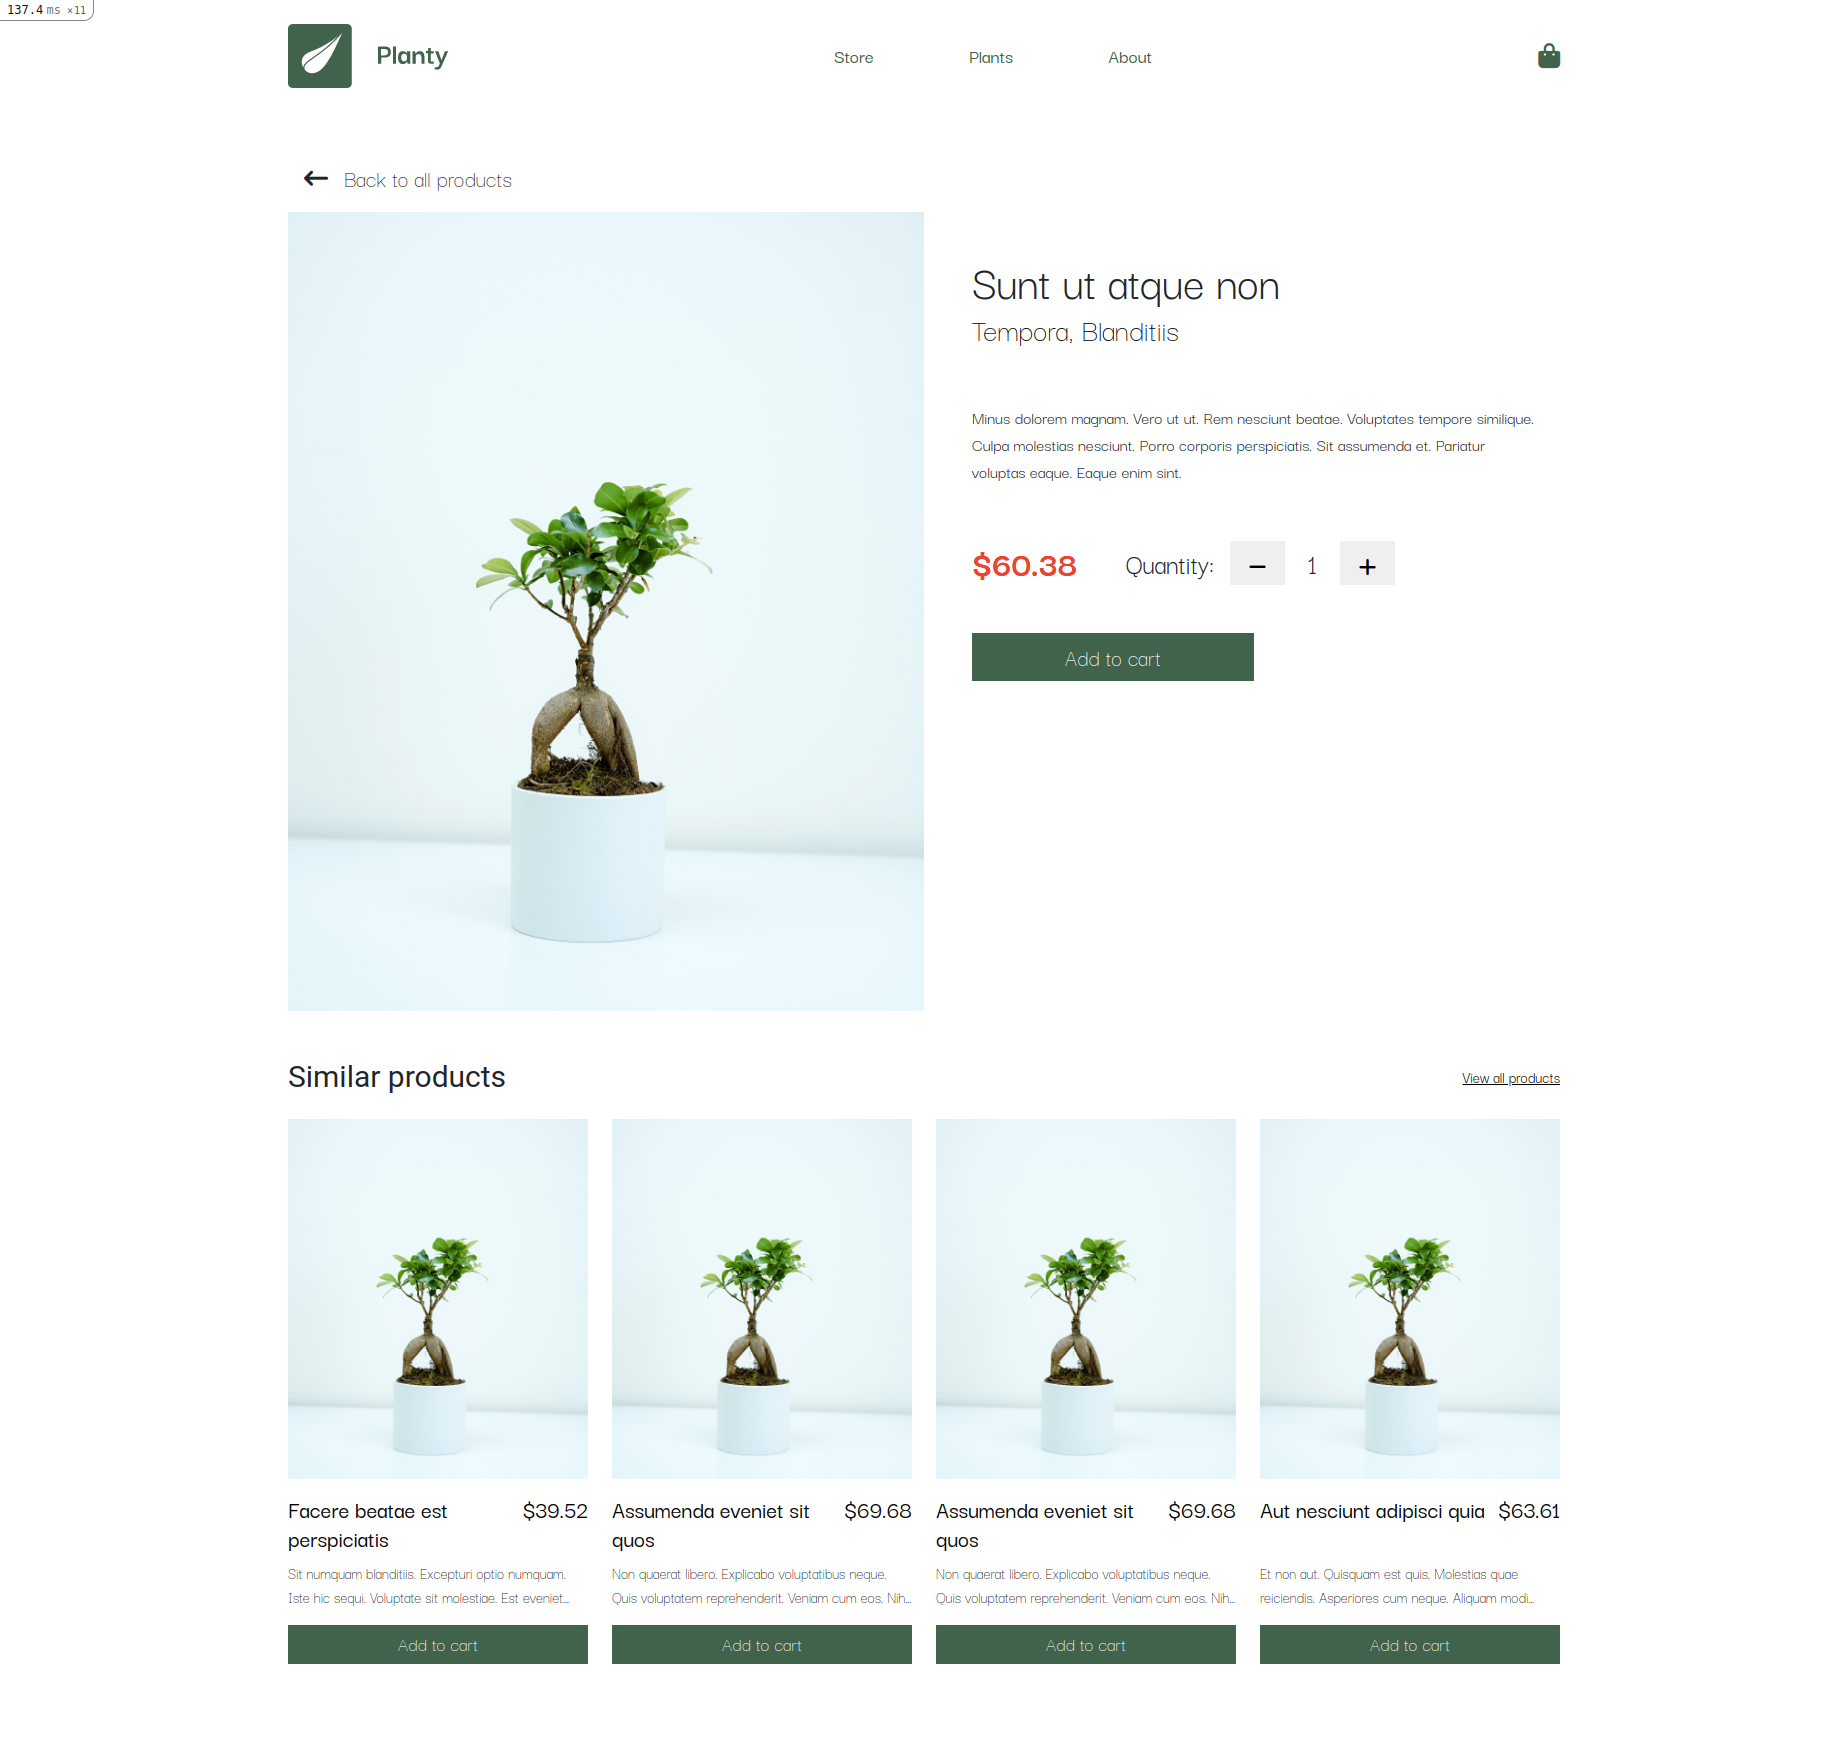
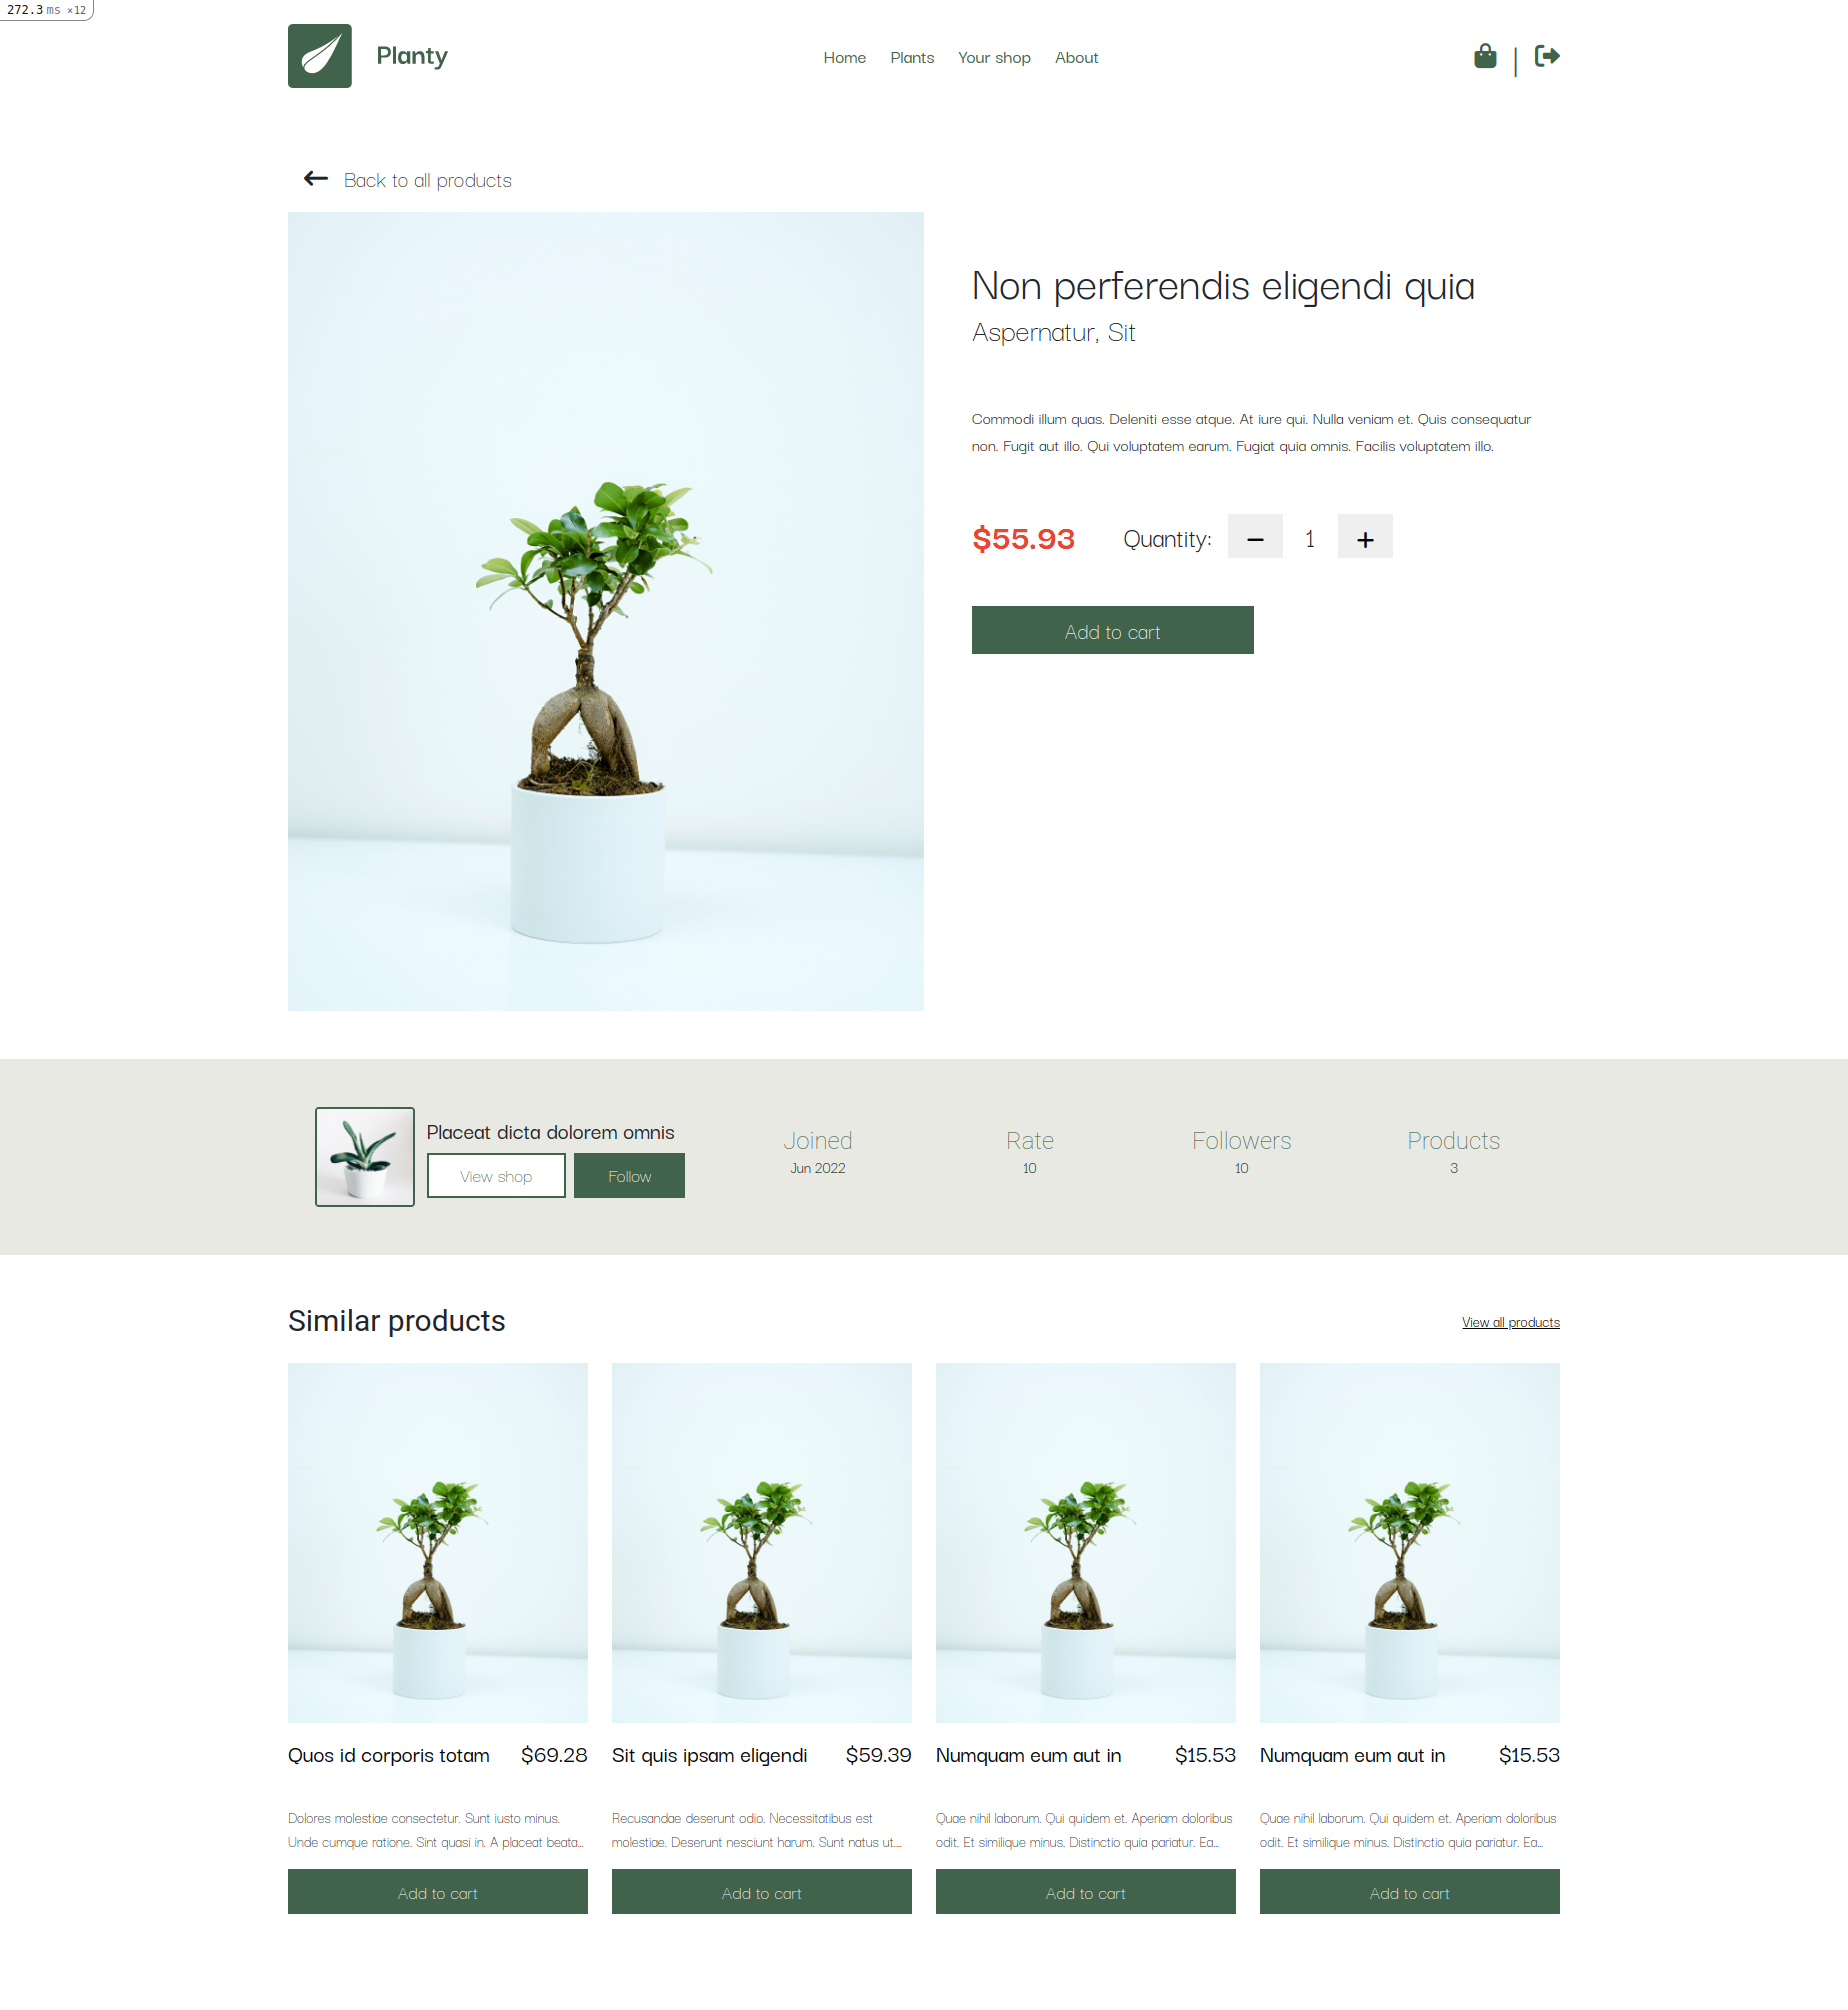
Update Product#show UI, add screenshots for shops

diff --git a/app/javascript/stylesheets/_config.scss b/app/javascript/stylesheets/_config.scss
@@ -12,7 +12,7 @@ $dark-green: rgb(65, 98, 75);
 }
 
 .text-darkgreen {
-  color: $dark-green;
+  color: $dark-green !important;
 }
 
 .text-red {
@@ -59,15 +59,19 @@ $dark-green: rgb(65, 98, 75);
   border: 2px solid $dark-green;
 }
 
-.btn-add-to-cart {
+.bg-color-cream {
+  background-color: #e8e9e3;
+}
+
+.btn-small {
   width: 100%; 
   background-color: $dark-green;
   padding: 12px 32px; 
   color: white;
   font-size: 20px;
   @extend .fw-300;
-  border-style: none;
-  height: 40px;
+  border: 2px solid $dark-green;
+  height: 45px;
   line-height: 16px;
 }
 
@@ -76,7 +80,7 @@ $dark-green: rgb(65, 98, 75);
   background-color: $dark-green;
   font-size: 24px;
   color: white;
-  border-style: none;
+  border: 2px solid $dark-green;
   transition: .1s;
 
   &:hover {
@@ -129,7 +133,7 @@ $dark-green: rgb(65, 98, 75);
     }
 
     button {
-      @extend .btn-add-to-cart;
+      @extend .btn-small;
     }
     
     &-name {

diff --git a/app/javascript/stylesheets/shops/show.scss b/app/javascript/stylesheets/shops/show.scss
@@ -1,5 +1,5 @@
 .shop-cover {
-  height: 280px; 
+  // height: 280px; 
   background-image: url('/assets/shop-cover.jpg');
   background-size: cover;
   background-position: center;

diff --git a/app/javascript/stylesheets/products/show.scss b/app/javascript/stylesheets/products/show.scss
@@ -21,3 +21,7 @@
     color: black;
   }
 }
+
+#product-show-shop {
+  @extend .bg-color-cream;
+}

diff --git a/db/schema.rb b/db/schema.rb
@@ -10,7 +10,7 @@
 #
 # It's strongly recommended that you check this file into your version control system.
 
-ActiveRecord::Schema.define(version: 2022_06_20_042758) do
+ActiveRecord::Schema.define(version: 2022_06_21_034112) do
 
   # These are extensions that must be enabled in order to support this database
   enable_extension "plpgsql"
@@ -82,7 +82,7 @@ ActiveRecord::Schema.define(version: 2022_06_20_042758) do
     t.string "name"
     t.text "description"
     t.bigint "user_id", null: false
-    t.integer "products_count"
+    t.integer "products_count", default: 0
     t.datetime "created_at", precision: 6, null: false
     t.datetime "updated_at", precision: 6, null: false
     t.index ["user_id"], name: "index_shops_on_user_id"

diff --git a/app/controllers/shops_controller.rb b/app/controllers/shops_controller.rb
@@ -15,7 +15,8 @@ class ShopsController < ApplicationController
 
   def create 
     @shop = Shop.new(shop_params.merge(user: @user))
-    if @shop.save 
+    if @shop.save
+      @user.add_role :seller 
       flash[:success] = "Congratulations! You have successfuly open your own shop on Planty!"
       redirect_to [@user, @shop], method: :get
     else 

diff --git a/db/migrate/20220621034112_add_default_product_count_to_shops.rb b/db/migrate/20220621034112_add_default_product_count_to_shops.rb
@@ -1,0 +1,5 @@
+class AddDefaultProductCountToShops < ActiveRecord::Migration[6.1]
+  def change
+    change_column_default :shops, :products_count, 0
+  end
+end

diff --git a/app/controllers/products_controller.rb b/app/controllers/products_controller.rb
@@ -10,8 +10,7 @@ class ProductsController < ApplicationController
     end
   end
   
-  def show 
-    
+  def show   
   end
 
   private 
